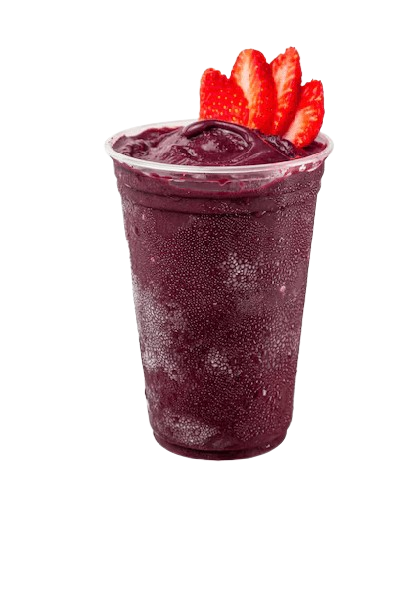
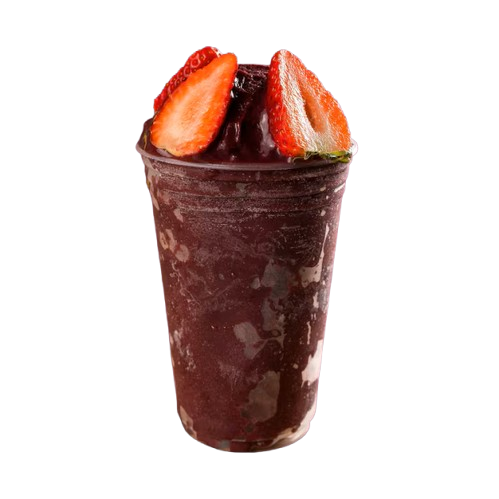
new features

Changed region(s): [[0.2647, 0.0601, 0.8235, 0.9319]]

diff --git a/index.html b/index.html
@@ -44,10 +44,17 @@
         <img src="assets/acainormal.png" alt="Açaí Natural">
         <h3>Açaí Natural</h3>
       </div>
+      
       <div class="açai-item">
         <img src="assets/acaibanana.png" alt="Açaí de Banana">
         <h3>Açaí batido <br> com Banana</h3>
       </div>
+
+      <div class="açai-item">
+        <img src="assets/acaimorango.png" alt="Açaí de Morango">
+        <h3>Açaí batido <br> com Morango</h3>
+      </div>
+
       <div class="açai-item">
         <img src="assets/acaioreo.png" alt="Açaí de Kinder">
         <h3>Açaí batido <br> com Kinder</h3>

diff --git a/pedidos.html b/pedidos.html
@@ -38,8 +38,8 @@
         <select id="product">
           <option value="Natural">Açaí Natural</option>
           <option value="Banana">Açaí de Banana</option>
+          <option value="Morango">Açaí de Morango</option>
           <option value="Kinder">Açaí de Kinder</option>
-          <option value="Oreo">Açaí de Oreo</option>
           <option value="Nutella">Açaí de Nutella</option>
         </select>
       </div>
